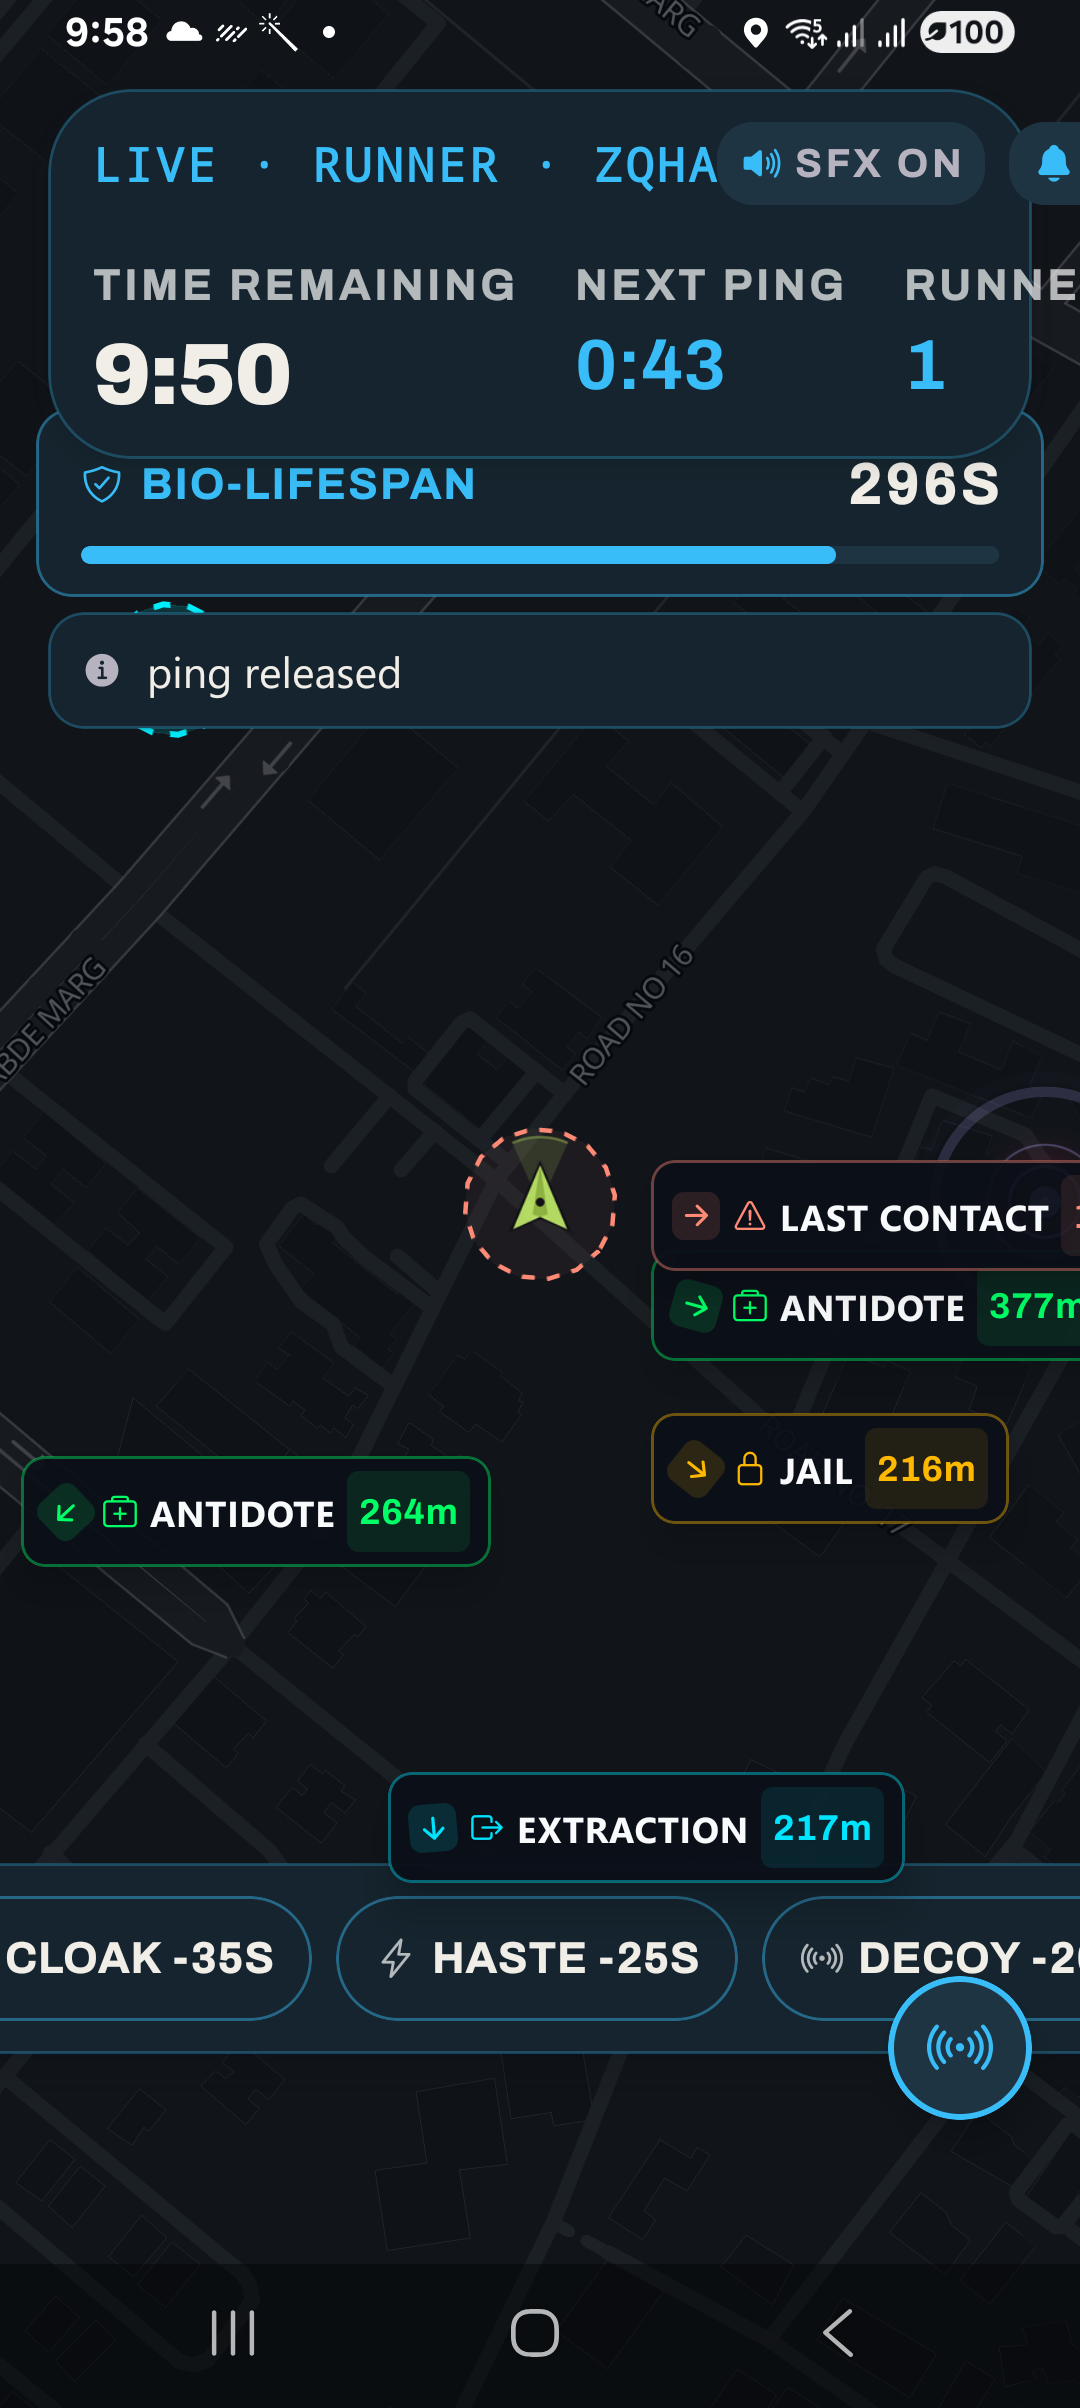
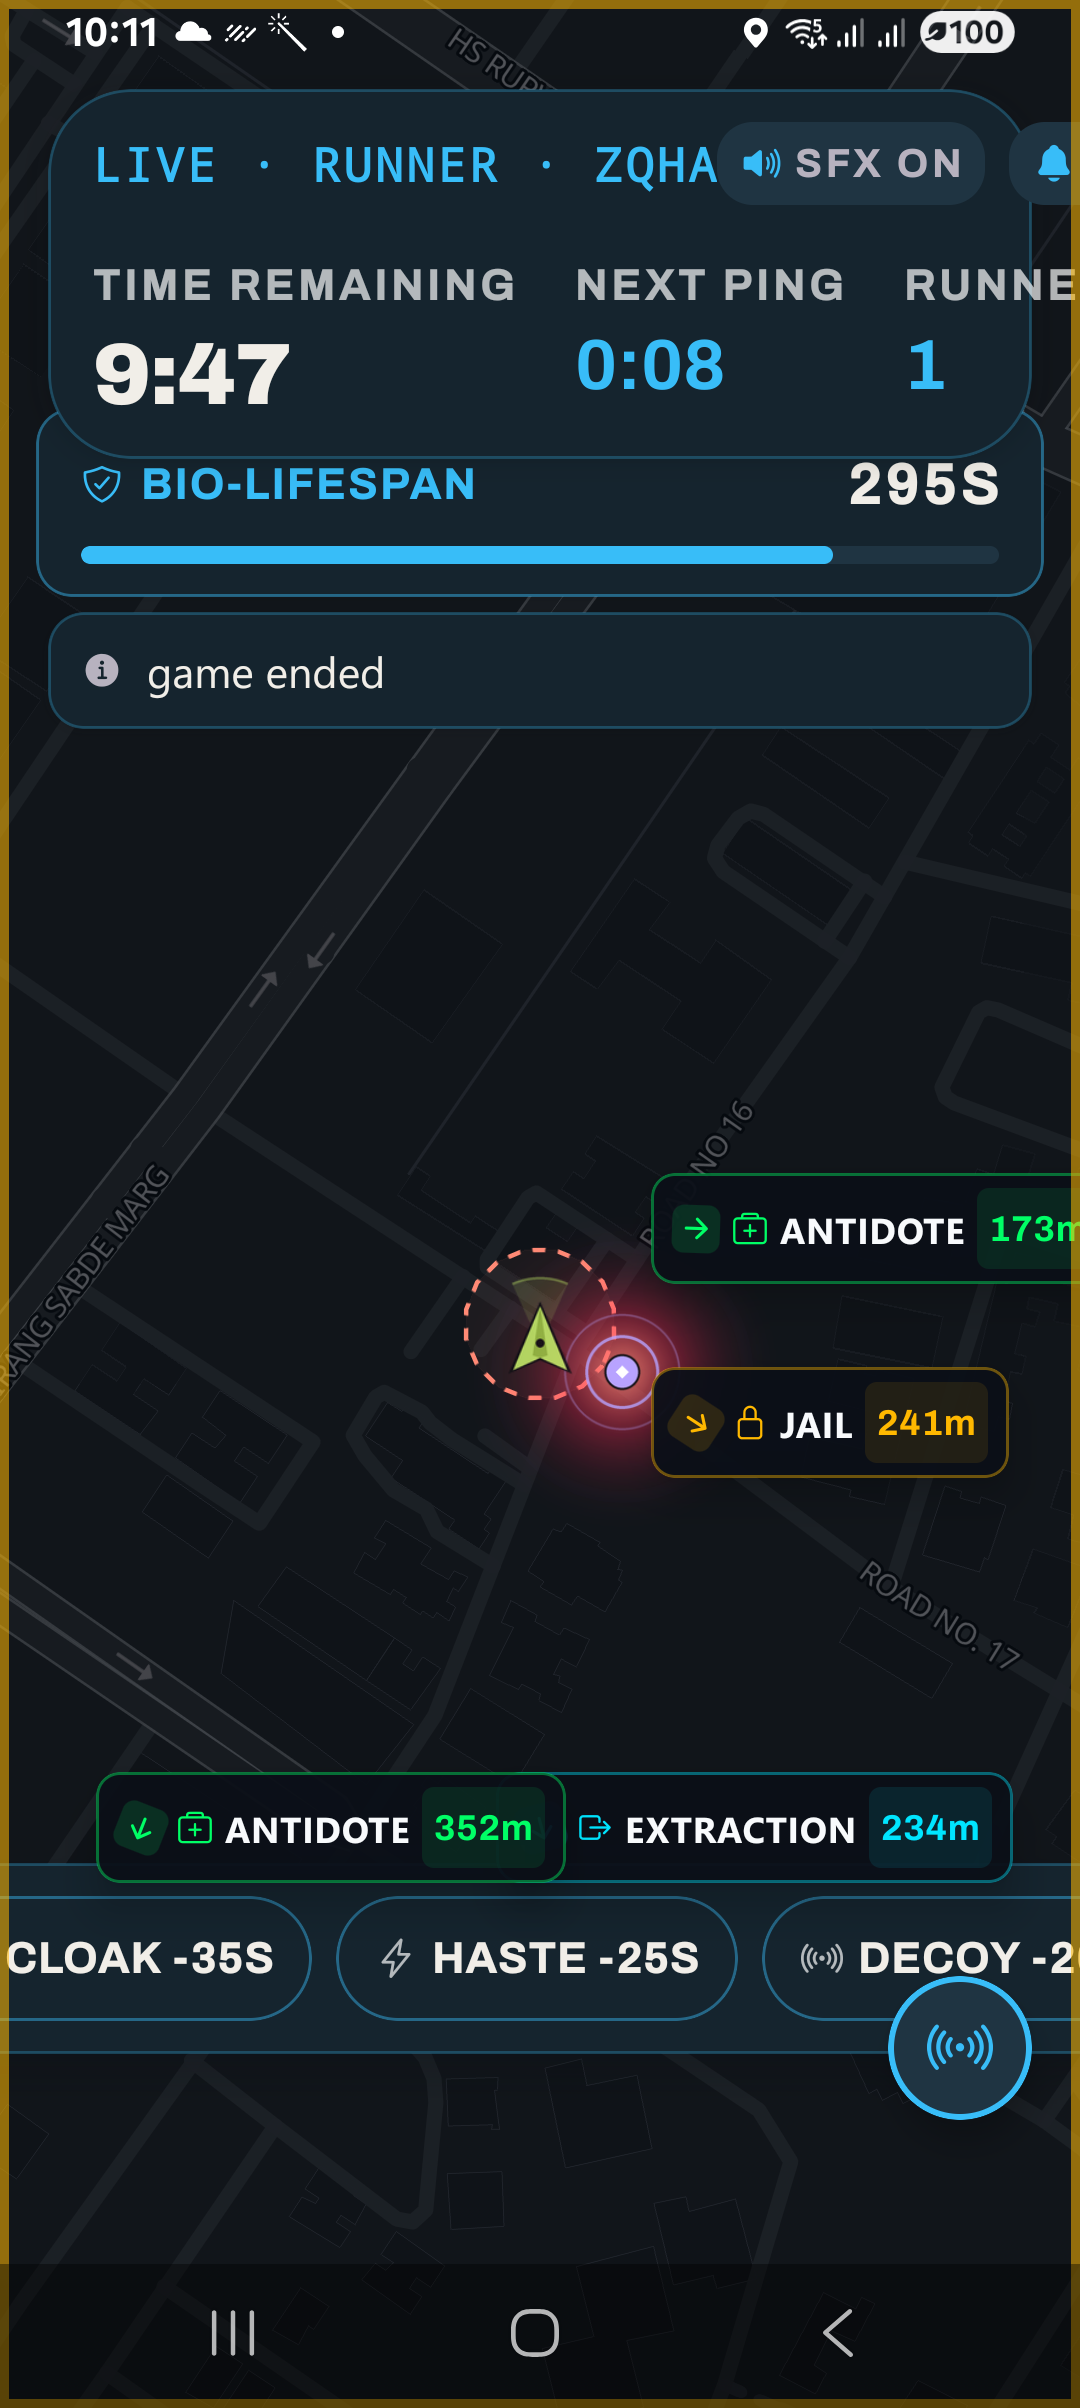
fix(map): lock gesture panning, center operative with camera padding, and align marker centroid

diff --git a/src/game-shell/MapView.tsx b/src/game-shell/MapView.tsx
@@ -74,18 +74,18 @@ export const MapView = memo(function MapView({
     }
 
     // Deadbands:
-    // 1. Angular deadband: ignore shifts < 3.5 deg to eliminate sensor tremor and desk noise
-    const shouldRotate = Math.abs(angleDelta) >= 3.5;
-    // 2. Spatial deadband: ignore GPS micro-wander < 3.0 meters when stationary
-    const shouldPan = distMoved >= 3.0;
+    // 1. Angular deadband: ignore shifts < 4.0 deg to eliminate sensor tremor and desk noise
+    const shouldRotate = Math.abs(angleDelta) >= 4.0;
+    // 2. Spatial deadband: ignore GPS micro-wander < 3.5 meters when stationary
+    const shouldPan = distMoved >= 3.5;
 
     // If neither threshold is crossed, keep camera completely frozen (rock solid on table)
     if (!shouldRotate && !shouldPan && lastCameraCenterRef.current !== null) {
       return;
     }
 
-    // Rate-limit camera easeTo calls to at most once per 160ms to prevent animation stutter
-    if (now - lastUpdateTimeRef.current < 160 && lastCameraCenterRef.current !== null) {
+    // Rate-limit camera easeTo calls to at most once per 250ms to match ease animation duration
+    if (now - lastUpdateTimeRef.current < 250 && lastCameraCenterRef.current !== null) {
       return;
     }
 
@@ -105,7 +105,8 @@ export const MapView = memo(function MapView({
       center: nextCenter,
       bearing: nextBearing,
       zoom: 16.5,
-      duration: 350,
+      padding: { top: 120, bottom: 40, left: 0, right: 0 },
+      duration: 300,
     });
   }, [ownFix, userHeading]);
   // Memoized GeoJSON features
@@ -200,6 +201,12 @@ export const MapView = memo(function MapView({
         attribution={false}
         compass={false}
         logo={false}
+        dragPan={false}
+        touchZoom={false}
+        doubleTapZoom={false}
+        doubleTapHoldZoom={false}
+        touchRotate={false}
+        touchPitch={false}
         mapStyle={isDark ? DARK_MAP_STYLE : DAY_MAP_STYLE}
         onPress={isMapLocked ? undefined : onPressMap}
         style={StyleSheet.absoluteFill}
@@ -209,6 +216,7 @@ export const MapView = memo(function MapView({
           initialViewState={{
             center: [area.longitude, area.latitude],
             zoom: 15,
+            padding: { top: 120, bottom: 40, left: 0, right: 0 },
           }}
         />
 

diff --git a/src/game-shell/GameShell.tsx b/src/game-shell/GameShell.tsx
@@ -122,16 +122,20 @@ export function GameShell({ gameId }: GameShellProps) {
           if (raw < 0 || isNaN(raw)) return;
 
           const nowMs = Date.now();
-          // Rate-limit React updates to ~10 updates/sec (100ms) to prevent high-frequency re-render churn
-          if (nowMs - lastUpdateTime < 100) return;
+          // Rate-limit React updates to ~5 updates/sec (200ms) to prevent high-frequency re-render churn
+          if (nowMs - lastUpdateTime < 200) return;
 
-          // Angular deadband: ignore angular shifts < 3.5 degrees to eliminate sensor tremor and desk noise
+          // Angular deadband: ignore angular shifts < 5.0 degrees to eliminate sensor tremor and desk noise
           const diff = Math.abs(((raw - lastHeading + 540) % 360) - 180);
-          if (diff < 3.5) return;
+          if (diff < 5.0) return;
 
-          lastHeading = raw;
+          // Exponential moving average filter for buttery smooth heading transitions
+          const angleDelta = ((raw - lastHeading + 540) % 360) - 180;
+          const smoothed = (lastHeading + angleDelta * 0.4 + 360) % 360;
+
+          lastHeading = smoothed;
           lastUpdateTime = nowMs;
-          setUserHeading(raw);
+          setUserHeading(smoothed);
         });
       } catch {
         // Heading may not be supported on emulators without compass
@@ -376,13 +380,13 @@ export function GameShell({ gameId }: GameShellProps) {
       const currentSpeed = nextFix.speed ?? 0;
 
       // Stationary GPS Wander Deadband:
-      // If speed is very low and displacement is within satellite noise (< 3.0m), keep existing fix
+      // If speed is very low and displacement is within satellite noise (< 4.0m), keep existing fix
       if (lastAcceptedFixRef.current) {
         const d = distanceM(
           { latitude: lastAcceptedFixRef.current.latitude, longitude: lastAcceptedFixRef.current.longitude },
           { latitude: nextFix.latitude, longitude: nextFix.longitude }
         );
-        if (currentSpeed < 0.7 && d < 3.0) {
+        if (currentSpeed < 0.8 && d < 4.0) {
           return; // Suppress stationary micro-jitter
         }
       }

diff --git a/src/components/map/AnimatedPlayerPointer.tsx b/src/components/map/AnimatedPlayerPointer.tsx
@@ -74,6 +74,11 @@ export function AnimatedPlayerPointer({
       ? require('../../../assets/map/pointers/hunter-pointer.png')
       : require('../../../assets/map/pointers/runner-pointer.png');
 
+  // The pointer asset is 128x128 with the arrow graphic centered at y=47 (17px above PNG center).
+  // Translating down by (17/128 * size) places the chevron arrow's visual centroid exactly at (0,0)
+  // so the arrow tip and body are concentric with the player GPS coordinates and tag radius ring.
+  const yOffset = Math.round(size * (17 / 128));
+
   return (
     <View style={[styles.container, { width: size, height: size }, style]}>
       <Animated.View
@@ -84,7 +89,15 @@ export function AnimatedPlayerPointer({
           opacity: reducedMotion ? 1 : coneOpacity,
         }}
       >
-        <Image source={imageSource} style={{ width: size, height: size }} resizeMode="contain" />
+        <Image
+          source={imageSource}
+          style={{
+            width: size,
+            height: size,
+            transform: [{ translateY: yOffset }],
+          }}
+          resizeMode="contain"
+        />
       </Animated.View>
     </View>
   );
